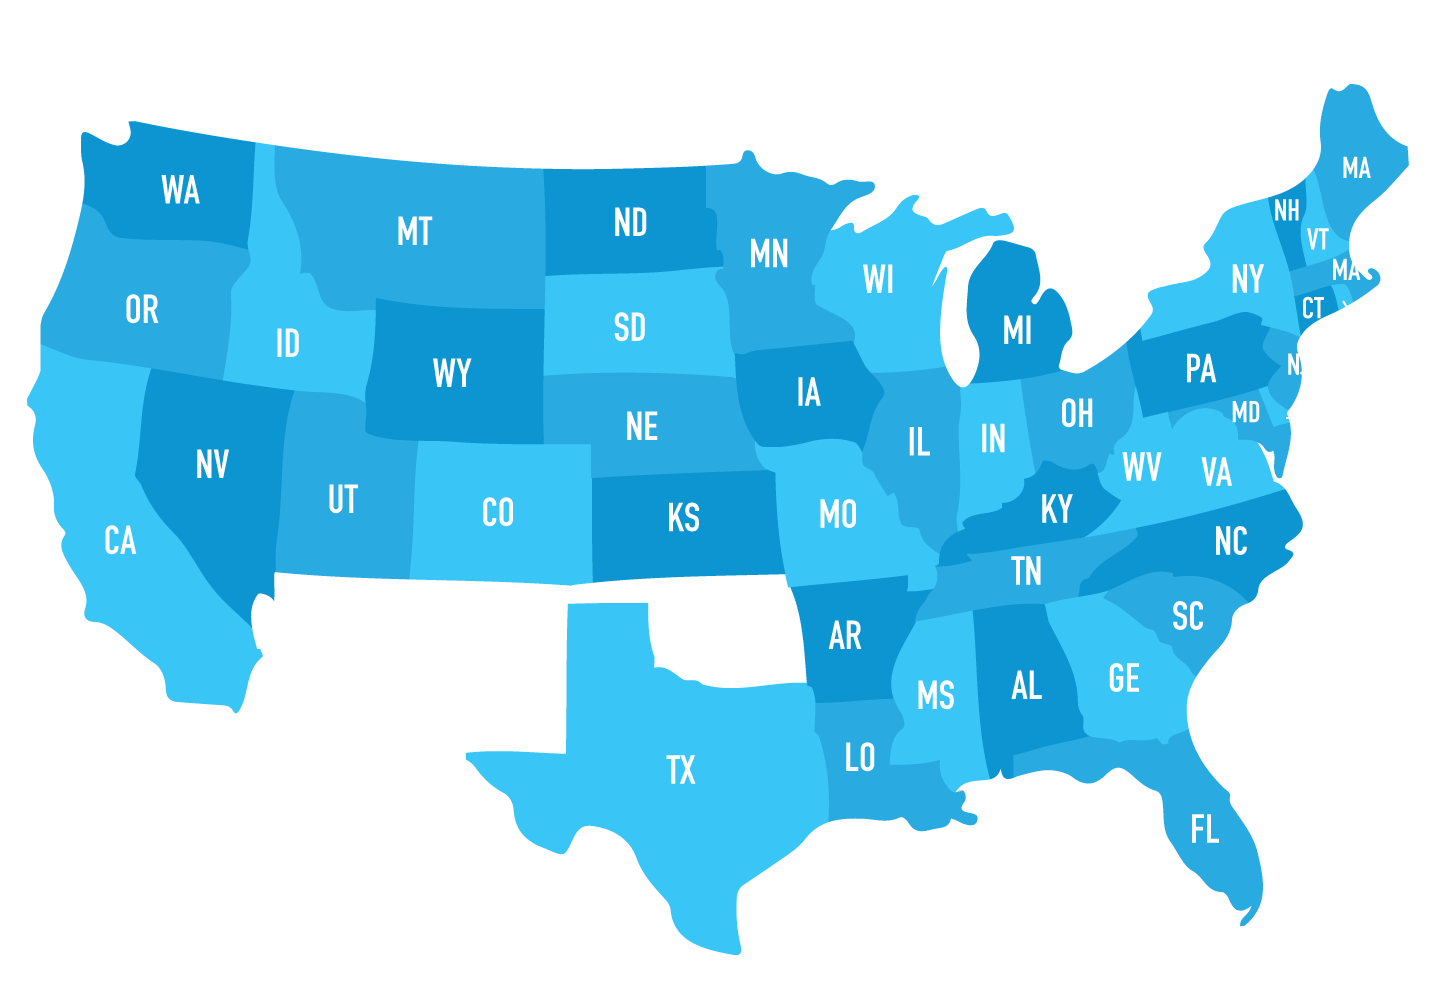
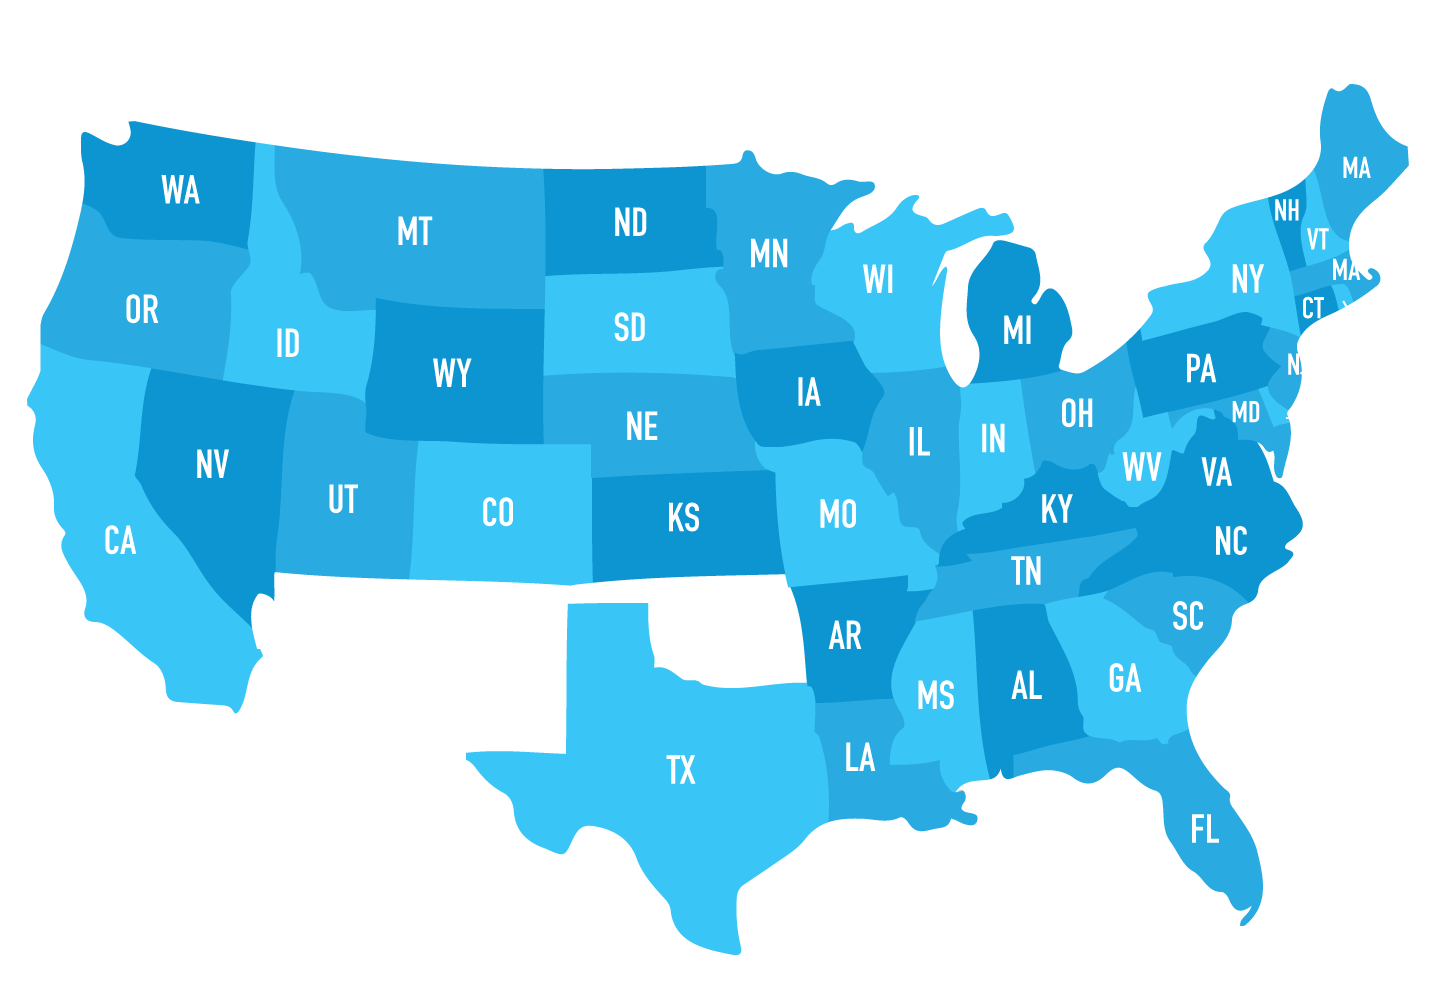
typo

Changed region(s): [[0.75, 0.403, 0.9062, 0.558], [0.7812, 0.651, 0.8125, 0.682], [0.5938, 0.744, 0.625, 0.775]]

diff --git a/assets/css/style.css b/assets/css/style.css
@@ -245,6 +245,9 @@ ul.sub-menu{
     max-width: 1100px;
 }
 
+.period-content ul li ul li{
+  margin-left: -30px;
+}
 .fade0{
     position: absolute;
     opacity:1;
